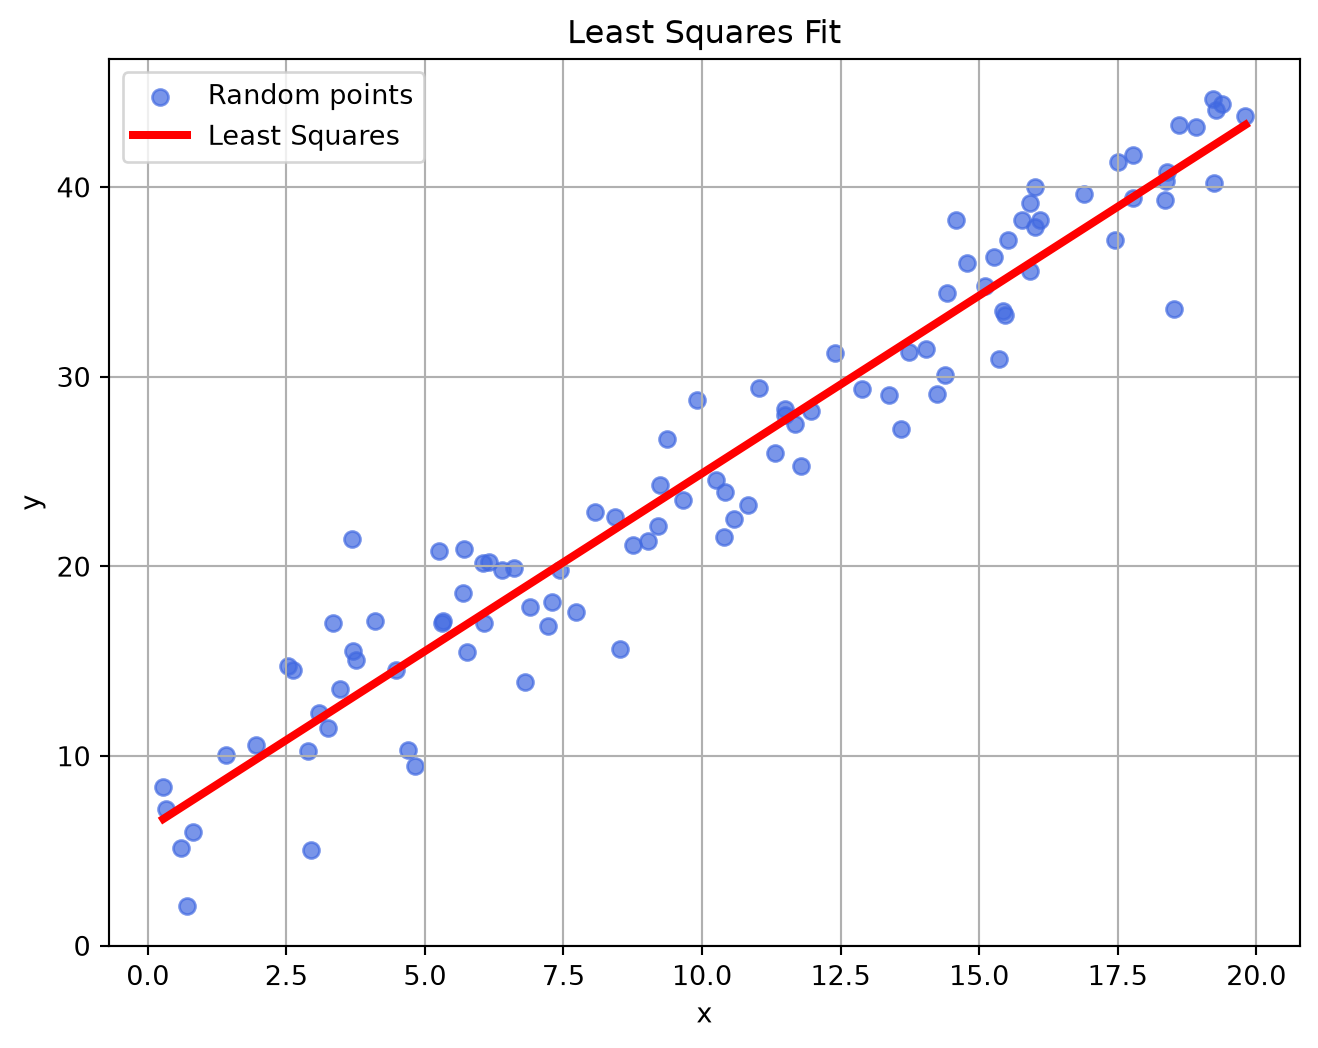
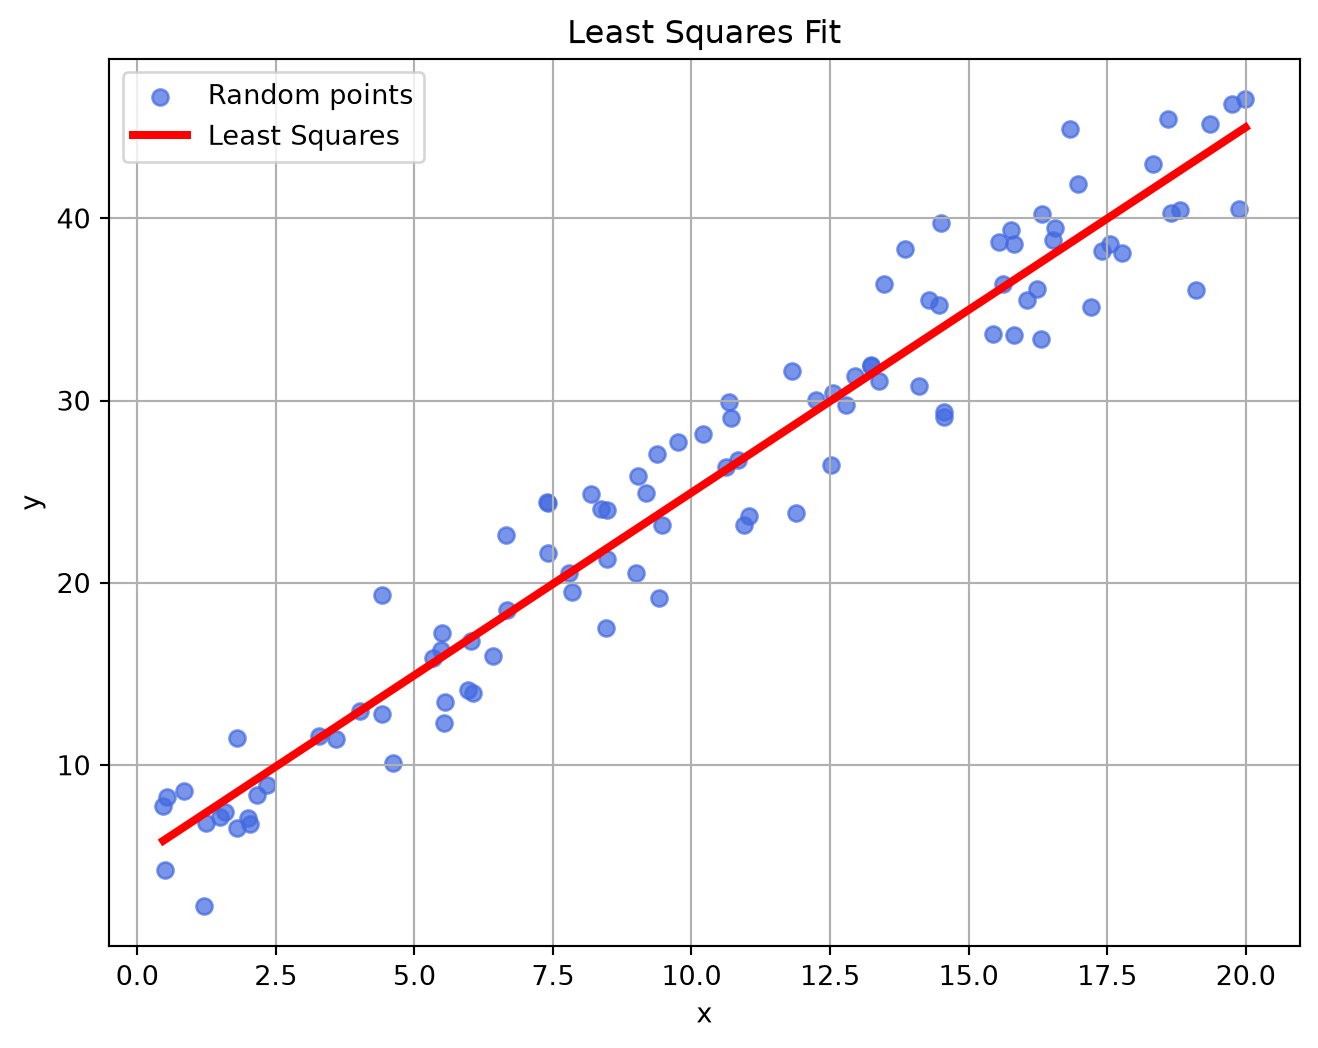
notyet

diff --git a/_site/note/multivariable-calculus/2.html b/_site/note/multivariable-calculus/2.html
@@ -575,7 +575,7 @@ window.Quarto = {
 </div>
 <p>Như ta đã tiếp xúc với hàm đơn biến từ trước, ví dụ như <span class="math inline">f(x) = x^2</span> hay <span class="math inline">f(x) = -x + 2</span>. Thì trong không gian 3 chiều, hay tổng quát hơn là n chiều, chúng ta cũng có thể biểu diễn nó bằng <span class="math inline">n - 1</span> biến.</p>
 <p>Ví dụ: Hàm <span class="math inline">f(x, y) = x^2 + y^2</span></p>
-<div id="bac2b769" class="cell" data-execution_count="1">
+<div id="dcb12503" class="cell" data-execution_count="1">
 <details class="code-fold">
 <summary>Code</summary>
 <div class="code-copy-outer-scaffold"><div class="sourceCode cell-code" id="cb1"><pre class="sourceCode python code-with-copy"><code class="sourceCode python"><span id="cb1-1"><a href="#cb1-1" aria-hidden="true" tabindex="-1"></a><span class="im">import</span> numpy <span class="im">as</span> np</span>
@@ -650,7 +650,7 @@ window.Quarto = {
 f_x = \frac {\partial f}{\partial x} = \lim _{\Delta x \rightarrow 0} \frac{f(x_0 + \Delta x, y_0) - f(x_0, y_0)}{\Delta x} \\[10pt]
 f_y = \frac {\partial f}{\partial x} = \lim _{\Delta y \rightarrow 0} \frac{f(x_0, y_0 + \Delta y) - f(x_0, y_0)}{\Delta y}
 </span></p>
-<div id="25f733ce" class="cell" data-execution_count="2">
+<div id="ab1818b1" class="cell" data-execution_count="2">
 <div class="cell-output cell-output-display">
 <div>
 <figure class="figure">
@@ -663,7 +663,7 @@ f_y = \frac {\partial f}{\partial x} = \lim _{\Delta y \rightarrow 0} \frac{f(x_
 <h2 class="anchored" data-anchor-id="cách-tính-đạo-hàm-từng-phần">Cách tính đạo hàm từng phần</h2>
 <p>Như đã nói ở trước, ta sẽ coi một biến là hằng số.</p>
 <p>Ví dụ hàm <span class="math inline">f(x, y) = x^2 + x^3y + 2y + 3x</span></p>
-<div id="1084f958" class="cell" data-execution_count="3">
+<div id="9af227fd" class="cell" data-execution_count="3">
 <details class="code-fold">
 <summary>Code</summary>
 <div class="code-copy-outer-scaffold"><div class="sourceCode cell-code" id="cb2"><pre class="sourceCode python code-with-copy"><code class="sourceCode python"><span id="cb2-1"><a href="#cb2-1" aria-hidden="true" tabindex="-1"></a><span class="im">import</span> numpy <span class="im">as</span> np</span>
@@ -741,7 +741,7 @@ f_y = \frac {\partial f}{\partial x} = \lim _{\Delta y \rightarrow 0} \frac{f(x_
 <p>Tương tự vậy với mặt phẳng 3D, tiếp tuyến của điểm là mặt phẳng 2D tạo bởi 2 đường tiếp tuyến khi đạo hàm theo x và đạo hàm theo y tại điểm đó.</p>
 <p>Ví dụ: <span class="math inline">f(x, y) = x^2 + y^2</span></p>
 <p>Ta xét tại điểm <span class="math inline">(x_0, y_0) = (1, 1)</span>, mặt phẳng tiếp tuyến là mặt phẳng màu cam trong hình.</p>
-<div id="bf0c3f93" class="cell" data-execution_count="4">
+<div id="0624192f" class="cell" data-execution_count="4">
 <details class="code-fold">
 <summary>Code</summary>
 <div class="code-copy-outer-scaffold"><div class="sourceCode cell-code" id="cb3"><pre class="sourceCode python code-with-copy"><code class="sourceCode python"><span id="cb3-1"><a href="#cb3-1" aria-hidden="true" tabindex="-1"></a><span class="im">import</span> numpy <span class="im">as</span> np</span>
@@ -828,7 +828,7 @@ f_y = \frac {\partial f}{\partial x} = \lim _{\Delta y \rightarrow 0} \frac{f(x_
 <p>Nhưng cũng vì thế mà sẽ có 3 trường hợp xảy ra:</p>
 <section id="điểm-cực-tiểu" class="level2">
 <h2 class="anchored" data-anchor-id="điểm-cực-tiểu">Điểm cực tiểu</h2>
-<div id="d621fcd2" class="cell" data-execution_count="5">
+<div id="ff8ca7c4" class="cell" data-execution_count="5">
 <details class="code-fold">
 <summary>Code</summary>
 <div class="code-copy-outer-scaffold"><div class="sourceCode cell-code" id="cb4"><pre class="sourceCode python code-with-copy"><code class="sourceCode python"><span id="cb4-1"><a href="#cb4-1" aria-hidden="true" tabindex="-1"></a><span class="im">import</span> numpy <span class="im">as</span> np</span>
@@ -898,7 +898,7 @@ f_y = \frac {\partial f}{\partial x} = \lim _{\Delta y \rightarrow 0} \frac{f(x_
 </section>
 <section id="điểm-cực-đại" class="level2">
 <h2 class="anchored" data-anchor-id="điểm-cực-đại">Điểm cực đại</h2>
-<div id="ec4b9bd5" class="cell" data-execution_count="6">
+<div id="bb64502f" class="cell" data-execution_count="6">
 <details class="code-fold">
 <summary>Code</summary>
 <div class="code-copy-outer-scaffold"><div class="sourceCode cell-code" id="cb5"><pre class="sourceCode python code-with-copy"><code class="sourceCode python"><span id="cb5-1"><a href="#cb5-1" aria-hidden="true" tabindex="-1"></a><span class="im">import</span> numpy <span class="im">as</span> np</span>
@@ -969,7 +969,7 @@ f_y = \frac {\partial f}{\partial x} = \lim _{\Delta y \rightarrow 0} \frac{f(x_
 <section id="điểm-saddle" class="level2">
 <h2 class="anchored" data-anchor-id="điểm-saddle">Điểm saddle</h2>
 <p>Vừa là cực dại vừa là cực tiểu.</p>
-<div id="5d1f5d9a" class="cell" data-execution_count="7">
+<div id="8e32d80e" class="cell" data-execution_count="7">
 <details class="code-fold">
 <summary>Code</summary>
 <div class="code-copy-outer-scaffold"><div class="sourceCode cell-code" id="cb6"><pre class="sourceCode python code-with-copy"><code class="sourceCode python"><span id="cb6-1"><a href="#cb6-1" aria-hidden="true" tabindex="-1"></a><span class="im">import</span> numpy <span class="im">as</span> np</span>
@@ -1054,7 +1054,7 @@ f_y = \frac {\partial f}{\partial x} = \lim _{\Delta y \rightarrow 0} \frac{f(x_
 <p>Tìm đường/hàm khớp dữ liệu bằng cách tối thiểu hóa tổng bình phương sai số.</p>
 </div>
 </div>
-<div id="16e810b4" class="cell" data-execution_count="8">
+<div id="35e09be9" class="cell" data-execution_count="8">
 <details class="code-fold">
 <summary>Code</summary>
 <div class="code-copy-outer-scaffold"><div class="sourceCode cell-code" id="cb7"><pre class="sourceCode python code-with-copy"><code class="sourceCode python"><span id="cb7-1"><a href="#cb7-1" aria-hidden="true" tabindex="-1"></a><span class="im">import</span> numpy <span class="im">as</span> np</span>
@@ -1373,7 +1373,7 @@ f = t^2 e^t + \sin t
 <p><strong>Định nghĩa:</strong> <span class="math inline">\nabla f = &lt;f_x, f_y, f_z&gt;</span> - Là một vector Gradient.</p>
 <p>Khi đó thì vector sẽ vuông góc với mặt phẳng, và có hướng về phía mà có f(x, y, z) cao hơn. (Tức là nếu nó ở đoạn sườn dốc của một ngọn núi, thì nó sẽ nhìn lên phía trên đỉnh thay vì nhìn xuống dưới chân núi).</p>
 <p><strong>Ví dụ:</strong> Sau đây là một hàm bất kỳ, ta vẽ được như sau:</p>
-<div id="46be9a36" class="cell" data-execution_count="9">
+<div id="f40d7c3c" class="cell" data-execution_count="9">
 <details class="code-fold">
 <summary>Code</summary>
 <div class="code-copy-outer-scaffold"><div class="sourceCode cell-code" id="cb8"><pre class="sourceCode python code-with-copy"><code class="sourceCode python"><span id="cb8-1"><a href="#cb8-1" aria-hidden="true" tabindex="-1"></a><span class="im">import</span> numpy <span class="im">as</span> np</span>
@@ -1406,7 +1406,7 @@ f = t^2 e^t + \sin t
 </div>
 </div>
 <p>có contour plot là:</p>
-<div id="a0092c36" class="cell" data-execution_count="10">
+<div id="ece00172" class="cell" data-execution_count="10">
 <details class="code-fold">
 <summary>Code</summary>
 <div class="code-copy-outer-scaffold"><div class="sourceCode cell-code" id="cb9"><pre class="sourceCode python code-with-copy"><code class="sourceCode python"><span id="cb9-1"><a href="#cb9-1" aria-hidden="true" tabindex="-1"></a><span class="im">import</span> numpy <span class="im">as</span> np</span>
@@ -1439,7 +1439,7 @@ f = t^2 e^t + \sin t
 </div>
 </div>
 <p>và vector gradient được vẽ màu đỏ như sau:</p>
-<div id="98d911a0" class="cell" data-execution_count="11">
+<div id="c2f66b3b" class="cell" data-execution_count="11">
 <details class="code-fold">
 <summary>Code</summary>
 <div class="code-copy-outer-scaffold"><div class="sourceCode cell-code" id="cb10"><pre class="sourceCode python code-with-copy"><code class="sourceCode python"><span id="cb10-1"><a href="#cb10-1" aria-hidden="true" tabindex="-1"></a><span class="im">import</span> numpy <span class="im">as</span> np</span>
@@ -1497,7 +1497,7 @@ f_x\frac{\mathbf dz}{\mathbf dt}
 \frac{\mathbf d \vec r}{\mathbf dt} = &lt;\frac{\mathbf dx}{\mathbf dt},\frac{\mathbf dy}{\mathbf dt},\frac{\mathbf dz}{\mathbf dt}&gt;
 </span></p>
 <hr>
-<div id="10990542" class="cell" data-execution_count="12">
+<div id="0874f980" class="cell" data-execution_count="12">
 <details class="code-fold">
 <summary>Code</summary>
 <div class="code-copy-outer-scaffold"><div class="sourceCode cell-code" id="cb11"><pre class="sourceCode python code-with-copy"><code class="sourceCode python"><span id="cb11-1"><a href="#cb11-1" aria-hidden="true" tabindex="-1"></a><span class="im">import</span> numpy <span class="im">as</span> np</span>

diff --git a/_site/note/multivariable-calculus/3.html b/_site/note/multivariable-calculus/3.html
@@ -613,7 +613,7 @@ window.Quarto = {
 <p><strong>Ví dụ:</strong> <span class="math display">
 \int_0^1 \int_x^{\sqrt x} \frac {e^y}{y} \mathbf dy \mathbf dx
 </span></p>
-<div id="3f02d7c9" class="cell" data-execution_count="1">
+<div id="fb74f46b" class="cell" data-execution_count="1">
 <details class="code-fold">
 <summary>Code</summary>
 <div class="code-copy-outer-scaffold"><div class="sourceCode cell-code" id="cb1"><pre class="sourceCode python code-with-copy"><code class="sourceCode python"><span id="cb1-1"><a href="#cb1-1" aria-hidden="true" tabindex="-1"></a><span class="im">import</span> numpy <span class="im">as</span> np</span>
@@ -832,7 +832,7 @@ v_x &amp; v_y
 <div class="callout-body-container callout-body">
 <p>Việc này nếu chưa học <strong>18.06</strong> thì khá là khó để suy nghĩ. Nhưng hãy suy nghĩ như thế này.</p>
 <p>Ta có 2 hình, bên trái chỉ <span class="math inline">\mathbf dA = \mathbf dx \mathbf dy</span> và bên phải là <span class="math inline">\mathbf dA' = \mathbf du \mathbf dv</span>, việc của chúng ta là tính hệ số diện tích của nó. Hay chính là chúng thu to hay thu nhỏ với hệ số bao nhiêu.</p>
-<div id="e787b2b4" class="cell" data-execution_count="2">
+<div id="4daf48a9" class="cell" data-execution_count="2">
 <details class="code-fold">
 <summary>Code</summary>
 <div class="code-copy-outer-scaffold"><div class="sourceCode cell-code" id="cb2"><pre class="sourceCode python code-with-copy"><code class="sourceCode python"><span id="cb2-1"><a href="#cb2-1" aria-hidden="true" tabindex="-1"></a><span class="im">import</span> numpy <span class="im">as</span> np</span>
@@ -994,7 +994,7 @@ r\cos^2\theta + r\sin^2\theta = r
 <p>Mỗi điểm trong mặt phẳng đều có môt vector <span class="math inline">\vec F</span>, vector này phụ thuộc vào x, y.</p>
 <p>Một số hình ảnh ví dụ về trường Vector.</p>
 <p><strong>Ví dụ 1</strong> <span class="math inline">\vec F = 2 \hat{\mathbf i} + \hat{\mathbf j}</span></p>
-<div id="e4c33e3d" class="cell" data-execution_count="3">
+<div id="7c2e9f9f" class="cell" data-execution_count="3">
 <details class="code-fold">
 <summary>Code</summary>
 <div class="code-copy-outer-scaffold"><div class="sourceCode cell-code" id="cb3"><pre class="sourceCode python code-with-copy"><code class="sourceCode python"><span id="cb3-1"><a href="#cb3-1" aria-hidden="true" tabindex="-1"></a><span class="im">import</span> numpy <span class="im">as</span> np</span>
@@ -1037,7 +1037,7 @@ r\cos^2\theta + r\sin^2\theta = r
 </div>
 <p>Mọi vector đều cùng hướng, cùng độ lớn tại mọi điểm.</p>
 <p><strong>Ví dụ 2</strong> <span class="math inline">\vec F = x \hat{\mathbf i}</span></p>
-<div id="902ac602" class="cell" data-execution_count="4">
+<div id="86e3a1ab" class="cell" data-execution_count="4">
 <details class="code-fold">
 <summary>Code</summary>
 <div class="code-copy-outer-scaffold"><div class="sourceCode cell-code" id="cb4"><pre class="sourceCode python code-with-copy"><code class="sourceCode python"><span id="cb4-1"><a href="#cb4-1" aria-hidden="true" tabindex="-1"></a><span class="im">import</span> numpy <span class="im">as</span> np</span>
@@ -1081,7 +1081,7 @@ r\cos^2\theta + r\sin^2\theta = r
 </div>
 </div>
 <p><strong>Ví dụ 3</strong> <span class="math inline">\vec F = x \hat{\mathbf i} + y \hat{\mathbf j}</span></p>
-<div id="2c70c1c6" class="cell" data-execution_count="5">
+<div id="1256dbcd" class="cell" data-execution_count="5">
 <details class="code-fold">
 <summary>Code</summary>
 <div class="code-copy-outer-scaffold"><div class="sourceCode cell-code" id="cb5"><pre class="sourceCode python code-with-copy"><code class="sourceCode python"><span id="cb5-1"><a href="#cb5-1" aria-hidden="true" tabindex="-1"></a><span class="im">import</span> numpy <span class="im">as</span> np</span>
@@ -1126,7 +1126,7 @@ r\cos^2\theta + r\sin^2\theta = r
 </div>
 </div>
 <p><strong>Ví dụ 4</strong> <span class="math inline">\vec F = -y \hat{\mathbf i} + x\hat{\mathbf j}</span></p>
-<div id="93eeb016" class="cell" data-execution_count="6">
+<div id="6573d503" class="cell" data-execution_count="6">
 <details class="code-fold">
 <summary>Code</summary>
 <div class="code-copy-outer-scaffold"><div class="sourceCode cell-code" id="cb6"><pre class="sourceCode python code-with-copy"><code class="sourceCode python"><span id="cb6-1"><a href="#cb6-1" aria-hidden="true" tabindex="-1"></a><span class="im">import</span> numpy <span class="im">as</span> np</span>
@@ -1242,7 +1242,7 @@ y = t^2 \qquad \mathbf dy = 2t\mathbf dt
 </div>
 </div>
 <p><strong>Tính</strong> Tích phân đường <span class="math inline">C = C_1 + C_2 + C_3</span> trong trường vector <span class="math inline">\vec F = &lt;y, x&gt;</span> sau:</p>
-<div id="6df5cf49" class="cell" data-execution_count="7">
+<div id="e399d152" class="cell" data-execution_count="7">
 <details class="code-fold">
 <summary>Code</summary>
 <div class="code-copy-outer-scaffold"><div class="sourceCode cell-code" id="cb7"><pre class="sourceCode python code-with-copy"><code class="sourceCode python"><span id="cb7-1"><a href="#cb7-1" aria-hidden="true" tabindex="-1"></a><span class="im">import</span> numpy <span class="im">as</span> np</span>
@@ -1442,7 +1442,7 @@ x = t \qquad y = t \\
 \int_c \vec F \mathbf d\vec r = f(B) - f(A)
 </span></p>
 <p><strong>Ví dụ</strong></p>
-<div id="1930d045" class="cell" data-execution_count="8">
+<div id="3bba1ff9" class="cell" data-execution_count="8">
 <details class="code-fold">
 <summary>Code</summary>
 <div class="code-copy-outer-scaffold"><div class="sourceCode cell-code" id="cb8"><pre class="sourceCode python code-with-copy"><code class="sourceCode python"><span id="cb8-1"><a href="#cb8-1" aria-hidden="true" tabindex="-1"></a><span class="im">import</span> numpy <span class="im">as</span> np</span>
@@ -1596,7 +1596,7 @@ M_y = N_x \\
 <p><span class="math display">
 f(x_1, y_1) = \int_C \vec F \mathbf d\vec r + f(0, 0)
 </span></p>
-<div id="f74746eb" class="cell" data-execution_count="9">
+<div id="810c41a4" class="cell" data-execution_count="9">
 <details class="code-fold">
 <summary>Code</summary>
 <div class="code-copy-outer-scaffold"><div class="sourceCode cell-code" id="cb9"><pre class="sourceCode python code-with-copy"><code class="sourceCode python"><span id="cb9-1"><a href="#cb9-1" aria-hidden="true" tabindex="-1"></a><span class="im">import</span> numpy <span class="im">as</span> np</span>
@@ -1810,7 +1810,7 @@ f(x, y) = \frac 4 3 x^3 + 4x^2y + y^3 + C
 <section id="interpretation-of-curl" class="level2">
 <h2 class="anchored" data-anchor-id="interpretation-of-curl">Interpretation of curl</h2>
 <p><strong>Ví dụ</strong> <span class="math inline">\vec F = &lt;x, y&gt;</span></p>
-<div id="99133fa7" class="cell" data-execution_count="10">
+<div id="0de242c6" class="cell" data-execution_count="10">
 <details class="code-fold">
 <summary>Code</summary>
 <div class="code-copy-outer-scaffold"><div class="sourceCode cell-code" id="cb10"><pre class="sourceCode python code-with-copy"><code class="sourceCode python"><span id="cb10-1"><a href="#cb10-1" aria-hidden="true" tabindex="-1"></a><span class="im">import</span> numpy <span class="im">as</span> np</span>
@@ -2029,7 +2029,7 @@ curl(\vec F) = N_x - M_y
 <p><span class="math display">
 \oint_C \vec F \cdot \hat{\mathbf n}\mathbf dS = \int\int_R \text{div}(\vec F)\mathbf dA
 </span></p>
-<div id="ca0df0c0" class="cell" data-execution_count="11">
+<div id="d4cb3177" class="cell" data-execution_count="11">
 <details class="code-fold">
 <summary>Code</summary>
 <div class="code-copy-outer-scaffold"><div class="sourceCode cell-code" id="cb11"><pre class="sourceCode python code-with-copy"><code class="sourceCode python"><span id="cb11-1"><a href="#cb11-1" aria-hidden="true" tabindex="-1"></a><span class="im">import</span> numpy <span class="im">as</span> np</span>

diff --git a/_site/note/multivariable-calculus/4.html b/_site/note/multivariable-calculus/4.html
@@ -576,7 +576,7 @@ z = x^2 + y^2 \tag{1}
 <p><span class="math display">
 z = 4 - x^2 - y^2 \tag{2}
 </span></p>
-<div id="d44bc40a" class="cell" data-execution_count="1">
+<div id="db579bb1" class="cell" data-execution_count="1">
 <details class="code-fold">
 <summary>Code</summary>
 <div class="code-copy-outer-scaffold"><div class="sourceCode cell-code" id="cb1"><pre class="sourceCode python code-with-copy"><code class="sourceCode python"><span id="cb1-1"><a href="#cb1-1" aria-hidden="true" tabindex="-1"></a><span class="im">import</span> numpy <span class="im">as</span> np</span>
@@ -679,7 +679,7 @@ z_{bottom} &lt; z_{top} \\
 \Rightarrow x^2 + y^2 &lt; 2
 </span></p>
 <p>Chính xác là nó chính là hình tròn với bán kính là <span class="math inline">\sqrt2</span>.</p>
-<div id="5689e0de" class="cell" data-execution_count="2">
+<div id="6a3f4876" class="cell" data-execution_count="2">
 <details class="code-fold">
 <summary>Code</summary>
 <div class="code-copy-outer-scaffold"><div class="sourceCode cell-code" id="cb2"><pre class="sourceCode python code-with-copy"><code class="sourceCode python"><span id="cb2-1"><a href="#cb2-1" aria-hidden="true" tabindex="-1"></a><span class="im">import</span> numpy <span class="im">as</span> np</span>
@@ -763,7 +763,7 @@ z_{bottom} &lt; z_{top} \\
 </div>
 </div>
 <p>Vì vậy ta có thể khiến y phụ thuộc vào x. Bằng phương trình đường tròn.</p>
-<div id="7e7128a7" class="cell" data-execution_count="3">
+<div id="310b7e6c" class="cell" data-execution_count="3">
 <details class="code-fold">
 <summary>Code</summary>
 <div class="code-copy-outer-scaffold"><div class="sourceCode cell-code" id="cb3"><pre class="sourceCode python code-with-copy"><code class="sourceCode python"><span id="cb3-1"><a href="#cb3-1" aria-hidden="true" tabindex="-1"></a><span class="im">import</span> numpy <span class="im">as</span> np</span>
@@ -878,7 +878,7 @@ x = r\cos\theta \qquad y = r\sin\theta \qquad z = z
 <li><span class="math inline">\phi</span>: Khoảng cách với trục z (<span class="math inline">0 \leq \phi \leq \pi</span>).</li>
 <li><span class="math inline">\theta</span>: Khoảng cách với mặt phẳng xz (<span class="math inline">0 \leq \theta \leq 2\pi</span>).</li>
 </ul>
-<div id="ad8ab0d2" class="cell" data-execution_count="4">
+<div id="2a32914a" class="cell" data-execution_count="4">
 <details class="code-fold">
 <summary>Code</summary>
 <div class="code-copy-outer-scaffold"><div class="sourceCode cell-code" id="cb4"><pre class="sourceCode python code-with-copy"><code class="sourceCode python"><span id="cb4-1"><a href="#cb4-1" aria-hidden="true" tabindex="-1"></a><span class="im">import</span> numpy <span class="im">as</span> np</span>
@@ -1105,7 +1105,7 @@ z_\rho &amp; z_\phi
 </div>
 </div>
 <p><strong>Ví dụ:</strong> Tính thể tích phần chóp được tạo bởi một hình cầu <span class="math inline">\rho = 1</span> và cắt ngang bởi mặt phẳng <span class="math inline">z = \frac 1 {\sqrt2}</span>.</p>
-<div id="b3f04cff" class="cell" data-execution_count="5">
+<div id="14c204b0" class="cell" data-execution_count="5">
 <details class="code-fold">
 <summary>Code</summary>
 <div class="code-copy-outer-scaffold"><div class="sourceCode cell-code" id="cb5"><pre class="sourceCode python code-with-copy"><code class="sourceCode python"><span id="cb5-1"><a href="#cb5-1" aria-hidden="true" tabindex="-1"></a><span class="im">import</span> numpy <span class="im">as</span> np</span>
